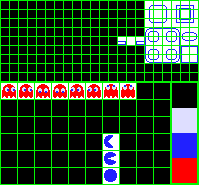
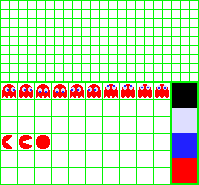
Persona rendering
The basics, at least.

The persona differs a little from the base game by enlarging and centering the circle.
This is required, at the moment, as only sprite rotation is supported.
And, with an offset sprite, this can get a little messy.

Whether or not the variance will be kept, unclear.
I think I prefer the symmetry.

In any case, support for manipulating a sprite in place should be added, as this would allow for stacked transformations.

For rendering, some additional abstraction introduced in the form of an action enum, allowing for unified draw/erase methods.

And, generally, size information is now located within the persona/animas, as it's quite convenient there, and I don't anticipate interest in varying sprite sizes for these objects.

Offsets have been updated to use implicit positional initialization, to maybe help readability.
This may be reverted, though...

diff --git a/src/render/sheet.c b/src/render/sheet.c
@@ -1,38 +1,50 @@
 #include <stdatomic.h>
 
+#include "macro.h"
 #include "render/sheet.h"
 
 SheetOffsets sheet_data = {
     .anima = {
-        .size = 16,
         .direction = {
-            .frames = 2,
-            .rt = {{.x = 1, .y = 83}, {.x = 18, .y = 83}},
-            .dn = {{.x = 35, .y = 83}, {.x = 52, .y = 83}},
-            .lt = {{.x = 69, .y = 83}, {.x = 86, .y = 83}},
-            .up = {{.x = 103, .y = 83}, {.x = 120, .y = 83}},
-        }},
+            .rt = {{1, 83}, {18, 83}},
+            .dn = {{35, 83}, {52, 83}},
+            .lt = {{69, 83}, {86, 83}},
+            .up = {{103, 83}, {120, 83}},
+        },
+        .thinking = {{137, 83}, {154, 83}},
+    },
+
+    .persona = {.eating = {{1, 134}, {18, 134}, {35, 134}}},
 };
 
 Pair_uint32 Sheet_anima_offset(const Anima *anima) {
 
-  size_t offset = anima->tick_action % sheet_data.anima.direction.frames;
-
   switch (atomic_load(&anima->mind.view.anima[anima->id].direction_actual)) {
   case DIRECTION_NONE: {
-    return sheet_data.anima.direction.up[offset];
+    constexpr size_t thinking_frames = ARRAY_LEN(sheet_data.anima.thinking);
+    return sheet_data.anima.thinking[anima->tick_action % thinking_frames];
   } break;
   case DIRECTION_N: {
-    return sheet_data.anima.direction.up[offset];
+    constexpr size_t up_frames = ARRAY_LEN(sheet_data.anima.direction.up);
+    return sheet_data.anima.direction.up[anima->tick_action % up_frames];
   } break;
   case DIRECTION_E: {
-    return sheet_data.anima.direction.rt[offset];
+    constexpr size_t rt_frames = ARRAY_LEN(sheet_data.anima.direction.rt);
+    return sheet_data.anima.direction.rt[anima->tick_action % rt_frames];
   } break;
   case DIRECTION_S: {
-    return sheet_data.anima.direction.dn[offset];
+    constexpr size_t dn_frames = ARRAY_LEN(sheet_data.anima.direction.dn);
+    return sheet_data.anima.direction.dn[anima->tick_action % dn_frames];
   } break;
   case DIRECTION_W: {
-    return sheet_data.anima.direction.lt[offset];
+    constexpr size_t lt_frames = ARRAY_LEN(sheet_data.anima.direction.lt);
+    return sheet_data.anima.direction.lt[anima->tick_action % lt_frames];
   } break;
   }
+}
+
+Pair_uint32 Sheet_persona_offset(const Persona *persona, Situation *situation) {
+
+  constexpr size_t eating_frames = ARRAY_LEN(sheet_data.persona.eating);
+  return sheet_data.persona.eating[persona->tick_action % eating_frames];
 }

diff --git a/src/main.c b/src/main.c
@@ -37,7 +37,7 @@ int main() { // int main(int argc, char *argv[]) {
       situation.persona.movement_pattern = 0x552a552a;
     }
 
-    Persona_default(&persona, &situation, TILE_PIXELS);
+    Persona_default(&persona, &situation, 16);
     setup_animas(animas);
   }
 
@@ -94,7 +94,7 @@ int main() { // int main(int argc, char *argv[]) {
         for (uint8_t id = 0; id < ANIMA_COUNT; ++id) {
           Renderer_draw_from_sheet(&renderer,
                                    animas[id].sprite_location,
-                                   sheet_data.anima.size,
+                                   animas[id].sprite_size,
                                    Sheet_anima_offset(&animas[id]),
                                    TURN_ONE,
                                    animas[id].pallete);
@@ -104,27 +104,17 @@ int main() { // int main(int argc, char *argv[]) {
             pthread_cond_broadcast(&animas[id].contact.cond_resume);
           }
         }
-        Renderer_draw_from_sheet(&renderer,
-                                 persona.sprite_location,
-                                 sheet_data.anima.size,
-                                 sheet_data.anima.direction.up[0],
-                                 TURN_ONE,
-                                 persona.pallete);
+        Renderer_persona(&renderer, &persona, &situation, RENDER_DRAW);
 
         Renderer_render_frame_buffer(&renderer);
       }
 
       { /// Post-render block
-        Renderer_erase_from_sheet(&renderer,
-                                  persona.sprite_location,
-                                  sheet_data.anima.size,
-                                  sheet_data.anima.direction.up[0],
-                                  TURN_ONE,
-                                  persona.pallete);
+        Renderer_persona(&renderer, &persona, &situation, RENDER_ERASE);
         for (uint8_t id = 0; id < ANIMA_COUNT; ++id) {
           Renderer_erase_from_sheet(&renderer,
                                     animas[id].sprite_location,
-                                    sheet_data.anima.size,
+                                    animas[id].sprite_size,
                                     Sheet_anima_offset(&animas[id]),
                                     TURN_ONE,
                                     animas[id].pallete);

diff --git a/src/render/render.c b/src/render/render.c
@@ -6,6 +6,7 @@
 
 #include "generic/pairs.h"
 #include "render.h"
+#include "render/sheet.h"
 
 void Renderer_create(Renderer *renderer, const Pair_uint8 maze_dimensions, const char *sheet_path) {
 
@@ -356,5 +357,42 @@ void Renderer_tile_arc(Renderer *self, Pair_uint32 origin, uint32_t radius, Quad
     offset.x += 1;
 
     Renderer_circle_draw(self, &origin, &offset, quadrant, colour);
+  }
+}
+
+void Renderer_persona(Renderer *self, Persona *persona, Situation *situation, RenderAction action) {
+
+  auto location = persona->sprite_location;
+  auto size = persona->sprite_size;
+  auto offset = Sheet_persona_offset(persona, situation);
+  auto pallete = persona->pallete;
+
+  Turn rotation = {};
+  switch (situation->persona.direction_actual) {
+  case DIRECTION_NONE: {
+    // Do nothing
+  } break;
+  case DIRECTION_N: {
+    rotation = TURN_QUARTER;
+  } break;
+  case DIRECTION_E: {
+    rotation = TURN_ONE;
+  } break;
+  case DIRECTION_S: {
+    rotation = TURN_THREE_QUARTER;
+  } break;
+  case DIRECTION_W: {
+    rotation = TURN_HALF;
+  } break;
+  }
+
+  switch (action) {
+
+  case RENDER_DRAW: {
+    Renderer_draw_from_sheet(self, location, size, offset, rotation, pallete);
+  } break;
+  case RENDER_ERASE: {
+    Renderer_erase_from_sheet(self, location, size, offset, rotation, pallete);
+  } break;
   }
 }

diff --git a/include/render.h b/include/render.h
@@ -9,6 +9,8 @@
 #include "constants.h"
 #include "enums.h"
 #include "generic/pairs.h"
+#include "logic/situation.h"
+#include "lyf/persona.h"
 #include "maze.h"
 #include "render/palette.h"
 #include "render/surface.h"
@@ -22,6 +24,12 @@ struct renderer_t {
   SDL_Renderer *renderer;
   SDL_Texture *texture;
 };
+
+enum renderer_action_e {
+  RENDER_DRAW,
+  RENDER_ERASE,
+};
+typedef enum renderer_action_e RenderAction;
 
 void Renderer_create(Renderer *renderer, const Pair_uint8 maze_size, const char *sheet_path);
 
@@ -62,3 +70,5 @@ static inline uint32_t Renderer_centre_offset(uint32_t size) {
 static inline bool Renderer_u32_location_is_tile(Pair_uint32 location) {
   return location.x % TILE_PIXELS == 0 && location.y % TILE_PIXELS == 0;
 }
+
+void Renderer_persona(Renderer *self, Persona *persona, Situation *situation, RenderAction action);

diff --git a/src/persona.c b/src/persona.c
@@ -4,19 +4,19 @@
 #include "render.h"
 #include <stdatomic.h>
 
-void Persona_default(Persona *persona, Situation *situation, uint8_t pixel_size) {
+void Persona_default(Persona *persona, Situation *situation, uint8_t sprite_size) {
   Pair_uint8 situation_location = atomic_load(&situation->persona.location);
 
   *persona = (Persona){
       .direction_intent = DIRECTION_E,
       .sprite_location = {.x = ((uint32_t)situation_location.x) * TILE_PIXELS,
                           .y = ((uint32_t)situation_location.y) * TILE_PIXELS},
-      .sprite_size = pixel_size,
+      .sprite_size = sprite_size,
       .pallete = {
           .a = 0x00000000,
           .b = 0x00000000,
           .c = 0x00000000,
-          .d = 0xff808080,
+          .d = 0xff00ffff,
       },
       .tick_action = 0,
   };

diff --git a/src/anima/anima.c b/src/anima/anima.c
@@ -9,7 +9,7 @@
 #include "maze.h"
 #include "render.h"
 
-void Anima_default(Anima *anima, uint8_t id, uint8_t scale, Pair_uint8 location, Direction direction) {
+void Anima_default(Anima *anima, uint8_t id, uint8_t sprite_size, Pair_uint8 location, Direction direction) {
   g_log(nullptr, G_LOG_LEVEL_INFO, "Creating anima: %d", id);
 
   Z3_context ctx = z3_mk_anima_ctx();
@@ -19,7 +19,7 @@ void Anima_default(Anima *anima, uint8_t id, uint8_t scale, Pair_uint8 location,
   *anima = (Anima){
       .id = id,
 
-      .sprite_size = scale,
+      .sprite_size = sprite_size,
       .sprite_location = {.x = ((uint32_t)location.x) * TILE_PIXELS,
                           .y = ((uint32_t)location.y) * TILE_PIXELS},
 

diff --git a/include/render/sheet.h b/include/render/sheet.h
@@ -1,25 +1,29 @@
 #pragma once
 
-#include <stdint.h>
-
-#include "lyf/anima.h"
 #include "generic/pairs.h"
+#include "lyf/anima.h"
+#include "lyf/persona.h"
 
 struct sheet_offsets_t {
   struct {
-    uint32_t size;
     struct {
-      uint32_t frames;
       Pair_uint32 rt[2];
       Pair_uint32 dn[2];
       Pair_uint32 lt[2];
       Pair_uint32 up[2];
     } direction;
-
+    Pair_uint32 thinking[2];
   } anima;
+
+  struct {
+    Pair_uint32 eating[3];
+
+  } persona;
 };
 typedef struct sheet_offsets_t SheetOffsets;
 
 extern SheetOffsets sheet_data;
 
 Pair_uint32 Sheet_anima_offset(const Anima *anima);
+
+Pair_uint32 Sheet_persona_offset(const Persona *persona, Situation *situation);

diff --git a/src/setup.c b/src/setup.c
@@ -66,7 +66,7 @@ void *setup_spirit(void *void_anima) {
 
 void setup_anima(Anima animas[ANIMA_COUNT], uint8_t id, Pair_uint8 location) {
 
-  Anima_default(&animas[id], id, TILE_PIXELS, location, DIRECTION_S);
+  Anima_default(&animas[id], id, 16, location, DIRECTION_S);
   pthread_create(&ANIMA_THREADS[id], nullptr, setup_spirit, (void *)&animas[id]);
 }
 

diff --git a/include/lyf/anima.h b/include/lyf/anima.h
@@ -39,7 +39,7 @@ typedef struct anima_t Anima;
 
 // Methods
 
-void Anima_default(Anima *anima, uint8_t id, uint8_t scale, Pair_uint8 location, Direction direction);
+void Anima_default(Anima *anima, uint8_t id, uint8_t sprite_size, Pair_uint8 location, Direction direction);
 
 void Anima_destroy(Anima *self);
 

diff --git a/include/lyf/persona.h b/include/lyf/persona.h
@@ -24,7 +24,7 @@ struct persona_t {
 };
 typedef struct persona_t Persona;
 
-void Persona_default(Persona *persona, Situation *situation, uint8_t pixel_size);
+void Persona_default(Persona *persona, Situation *situation, uint8_t sprite_size);
 
 void Persona_destroy(Persona *self);
 
